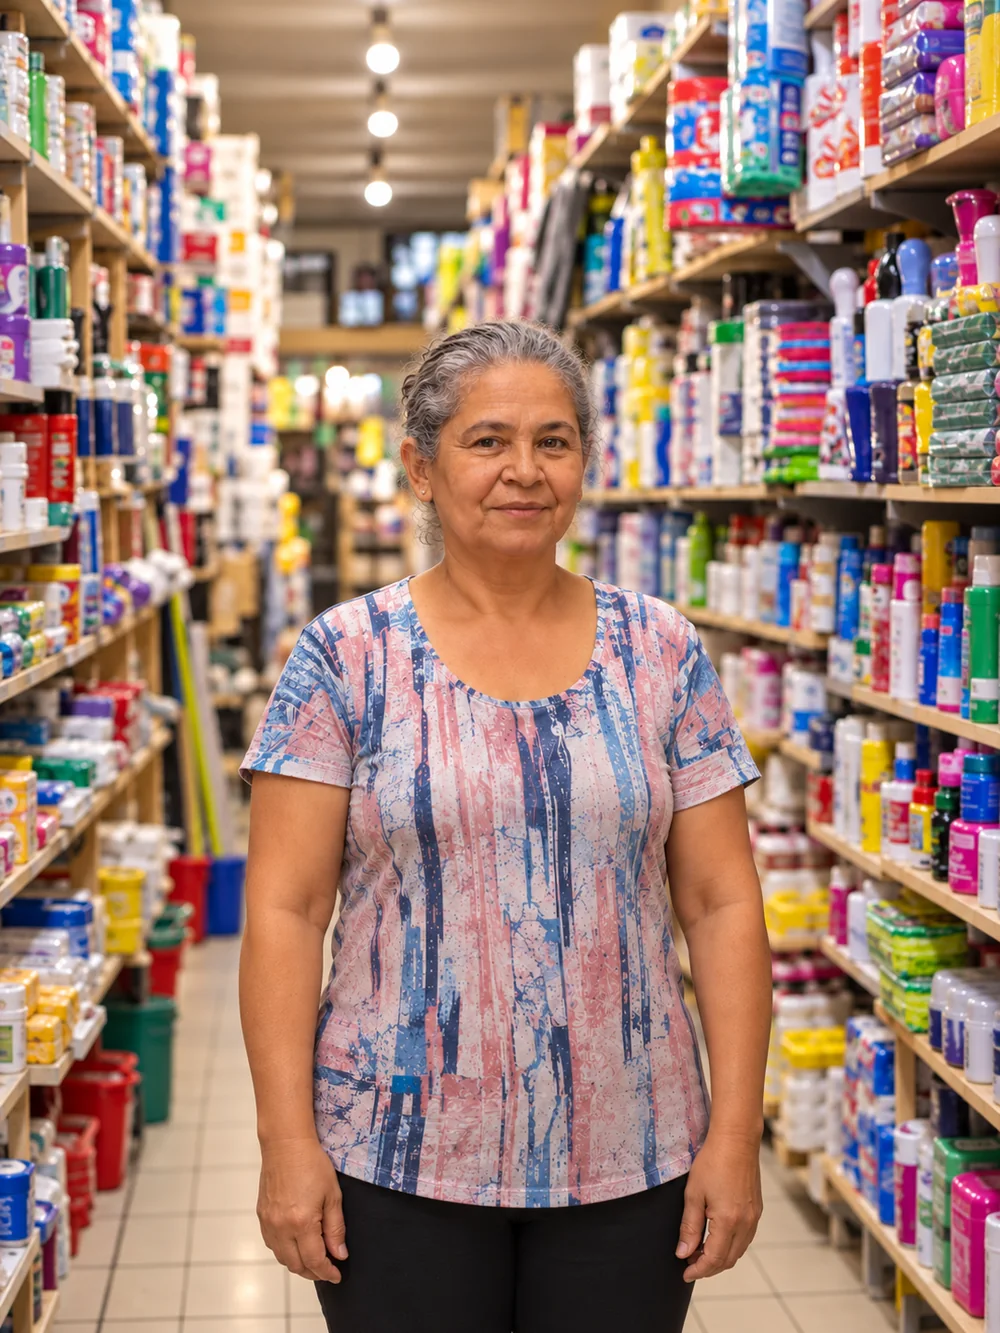
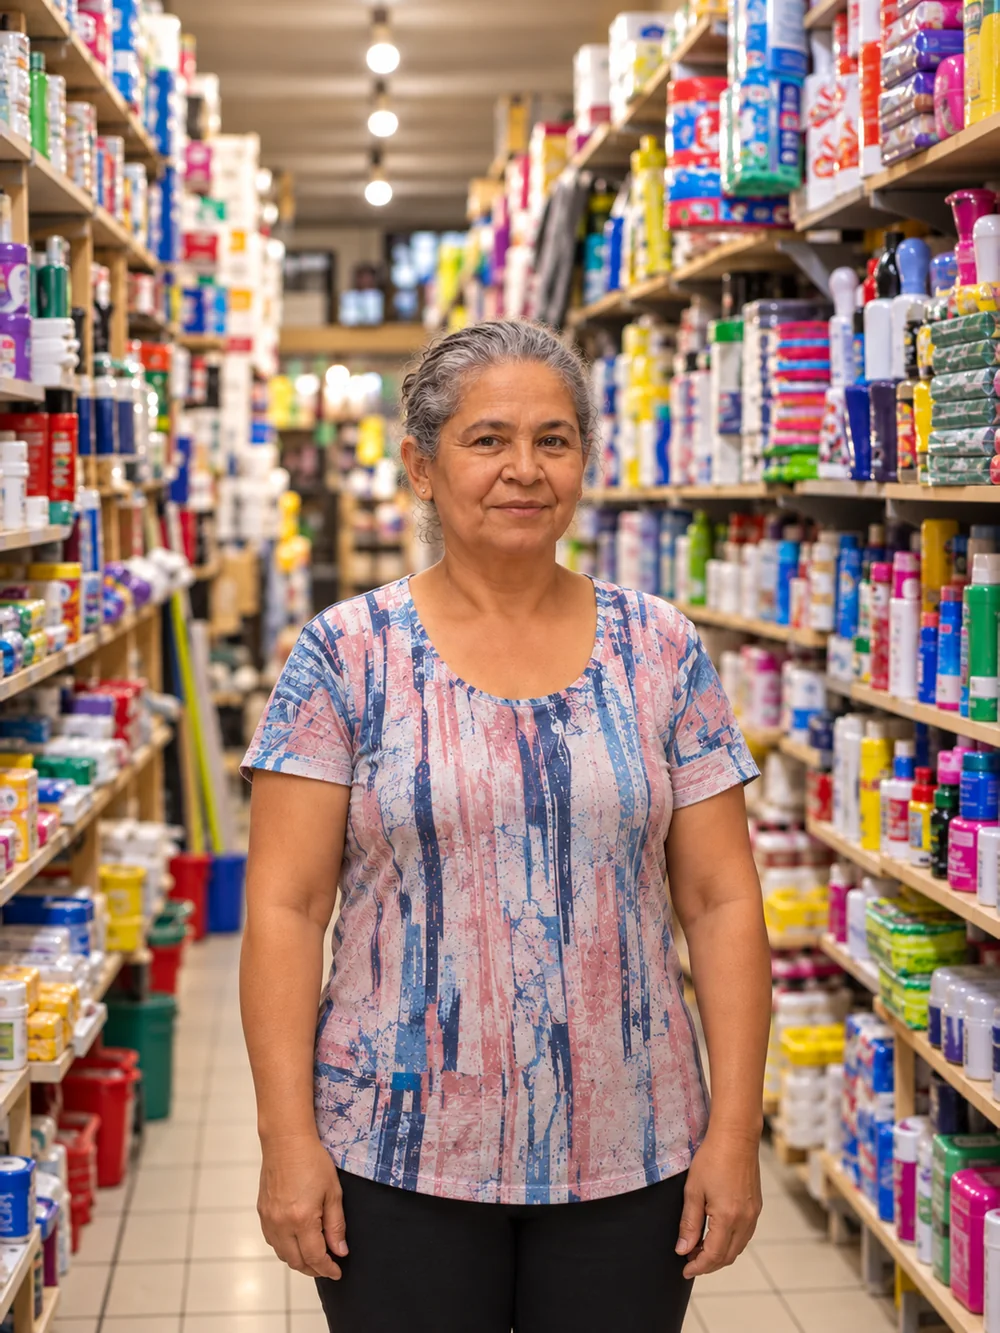
Padroniza a ESCALA das seis fotos da vitrine
O Victor apontou farmácia e variedades e tinha razão. Nas duas rodadas
anteriores eu conferi só o alinhamento — a linha dos olhos e o eixo vertical — e
dei por padronizado. Nunca medi a ESCALA, que era o que estava quebrado.

Medido no recorte real do painel, a largura do rosto como porcentagem da
largura do painel:

  Landim      26,9%   ← aprovado pelo Victor
  RN Grifes   27,1%   ← aprovado pelo Victor
  farmácia    36,2%
  papelaria   40,4%
  variedades  51,7%   ← quase o dobro do padrão

As três geradas estavam todas mais perto da câmera que os dois clientes reais.
O padrão são os aprovados: 27%.

Afastar exigia mais cenário ao redor da pessoa, e o arquivo não tinha. O
gerador de imagem está devolvendo resposta em cache desde ontem e não deu para
refazer as fotos. A saída foi estender a cena pelas laterais espelhando as
bordas: o fundo dessas três é prateleira, que é repetitiva, e no tamanho em que
o painel aparece o espelho não se nota. A pessoa fica proporcionalmente menor
sem perder nada do enquadramento.

Fatores aplicados: farmácia x1,34, papelaria x1,50, variedades x1,91 — cada um
calculado para levar o rosto aos 27%.

Conferido numa folha com os seis painéis simulados no tamanho real, com guia
horizontal em 30% e 40% da altura e eixo vertical: os seis rostos caem entre as
guias, todos no eixo, e as cabeças têm o mesmo tamanho.

diff --git a/public/index.html b/public/index.html
@@ -551,8 +551,8 @@
                     </span>
                 </a>
                 <a class="vitrine__item" href="/segmentos/farmacia/">
-                    <img src="/assets/lojistas/vitrine/farmacia-500.webp?v=52cd6387c6"
-                         srcset="/assets/lojistas/vitrine/farmacia-500.webp?v=52cd6387c6 500w, /assets/lojistas/vitrine/farmacia-1000.webp?v=526f215d7b 1000w"
+                    <img src="/assets/lojistas/vitrine/farmacia-500.webp?v=85facd67b9"
+                         srcset="/assets/lojistas/vitrine/farmacia-500.webp?v=85facd67b9 500w, /assets/lojistas/vitrine/farmacia-1000.webp?v=8e2fb01c8e 1000w"
                          sizes="(min-width: 72rem) 680px, (min-width: 48rem) 33vw, 50vw"
                          width="500" height="667" loading="lazy" decoding="async" alt="Farmacêutica lançando a venda no computador do balcão" />
                     <span class="vitrine__rotulo">
@@ -561,8 +561,8 @@
                     </span>
                 </a>
                 <a class="vitrine__item" href="/segmentos/papelaria/">
-                    <img src="/assets/lojistas/vitrine/papelaria-500.webp?v=f4532ededa"
-                         srcset="/assets/lojistas/vitrine/papelaria-500.webp?v=f4532ededa 500w, /assets/lojistas/vitrine/papelaria-1000.webp?v=c867574934 1000w"
+                    <img src="/assets/lojistas/vitrine/papelaria-500.webp?v=aa671f7aa1"
+                         srcset="/assets/lojistas/vitrine/papelaria-500.webp?v=aa671f7aa1 500w, /assets/lojistas/vitrine/papelaria-1000.webp?v=a26e69d7e5 1000w"
                          sizes="(min-width: 72rem) 680px, (min-width: 48rem) 33vw, 50vw"
                          width="500" height="667" loading="lazy" decoding="async" alt="Atendente de papelaria passando o cartão da cliente na maquininha" />
                     <span class="vitrine__rotulo">
@@ -571,8 +571,8 @@
                     </span>
                 </a>
                 <a class="vitrine__item" href="/segmentos/loja-de-variedades/">
-                    <img src="/assets/lojistas/vitrine/loja-de-variedades-500.webp?v=f1cc98ef1b"
-                         srcset="/assets/lojistas/vitrine/loja-de-variedades-500.webp?v=f1cc98ef1b 500w, /assets/lojistas/vitrine/loja-de-variedades-1000.webp?v=79e1953ce5 1000w"
+                    <img src="/assets/lojistas/vitrine/loja-de-variedades-500.webp?v=51026bd241"
+                         srcset="/assets/lojistas/vitrine/loja-de-variedades-500.webp?v=51026bd241 500w, /assets/lojistas/vitrine/loja-de-variedades-1000.webp?v=d0c61d4184 1000w"
                          sizes="(min-width: 72rem) 680px, (min-width: 48rem) 33vw, 50vw"
                          width="500" height="667" loading="lazy" decoding="async" alt="Lojista organizando a prateleira da loja de variedades" />
                     <span class="vitrine__rotulo">
